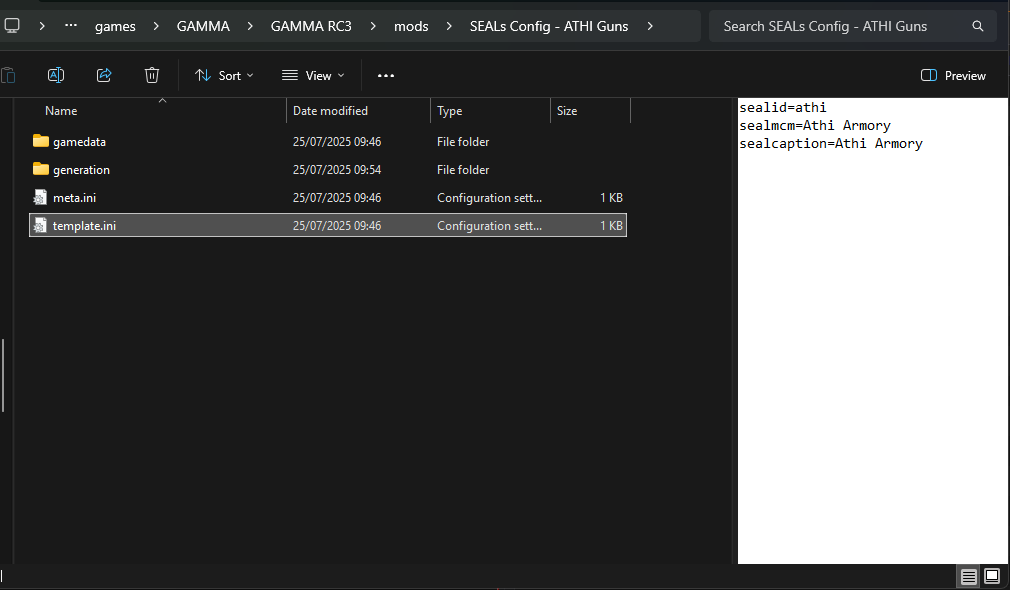
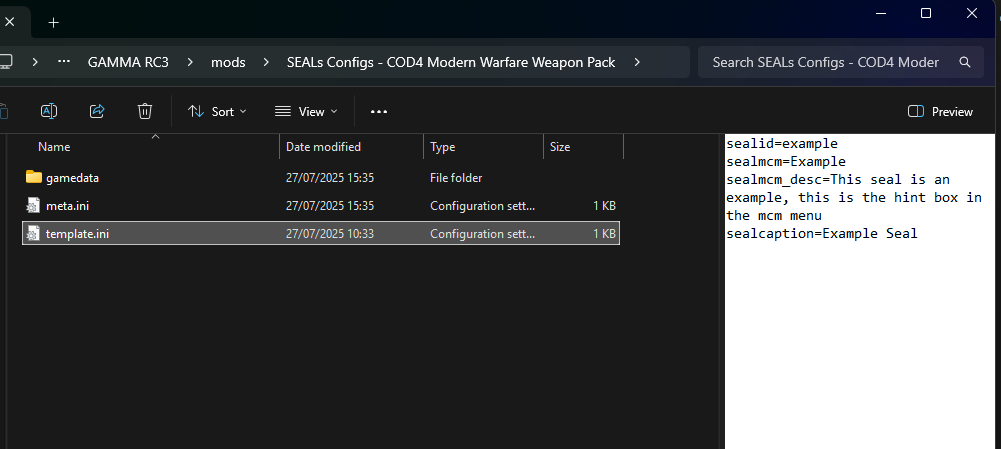
removed irl modders references

diff --git a/README.md b/README.md
@@ -70,7 +70,7 @@ You execute its commands from the windows terminal
 e.g.
 
 ```powershell
-SEALs.ps1 -new athi -from "GAMMA EXP Edition Redux - 3DSS ATHI Weapon Pack"
+SEALs.ps1 -new cod4 -from "3DSS COD4-MW Weapon Pack"
 ```
 
 or as **Mod Organizer 2** Executables
@@ -206,9 +206,9 @@ CLI allows you to create named configs projects from templates. These projects o
 
 ![template_inst](doc/images/template_inst.png)
 
-2) rename the template mod in MO2 with a name of your choice, e.g. `SEALs Configs - ATHI Guns`.
+2) rename the template mod in MO2 with a name of your choice, e.g. `SEALs Configs - COD4 Modern Warfare Weapon Pack`.
 
-![template_athi](doc/images/template_athi.png)
+![template_cod4](doc/images/template_cod4.png)
 
 3) open the renamed mod folder in explorer.
 
@@ -226,29 +226,33 @@ CLI allows you to create named configs projects from templates. These projects o
 
 	e.g. 
 	```
-	sealid=athi
-	sealmcm=Athi Armory
-	sealmcm_desc=This seal is an example, this is the hint box in the mcm menu 
-	sealcaption=Athi Armory
+	sealid=cod4
+	sealmcm=COD4 Modern Warfare
+	sealmcm_desc=A porting of all guns from COD4 Modern Warfare
+	sealcaption=COD4 Modern Warfare
 	```
 	
 	save the changes and exit.
 
-5) open a terminal in windows to the `SEALs Configs - ATHI weapons pack` mod folder 
+5) open a terminal in windows to the `SEALs Configs - COD4 Modern Warfare Weapon Pack` mod folder 
 
-![terminal](doc/images/terminal.png)
+![terminal_cod4](doc/images/terminal_cod4.png)
 
-6) use the CLI `new` command to create a new template config from a gun mod e.g. `3DSS ATHI Weapon Pack`
+6) use the CLI `new` command to create a new template config from a gun mod e.g. `3DSS COD4-MW Weapon Pack`
 
-```powershell
-SEALs.ps1 -new athi -from "GAMMA EXP Edition Redux - 3DSS ATHI Weapon Pack"
-```
-
-7) you can now add more group sections to this config mod using `add`
+![terminal_new_cod4](doc/images/terminal_new_cod4.png)
 
 ```powershell
-SEALs.ps1 -add athi -from "GAMMA EXP Edition Redux - 3DSS-BaS22-Hero-s-Choice"
+SEALs.ps1 -new cod4 -from "3DSS COD4-MW Weapon Pack"
 ```
+
+7) you can now add more group sections to this config mod using `add` from different gun mods
+
+```powershell
+SEALs.ps1 -add cod4 -from "3DSS COD4 Gold Desert Eagle"
+```
+
+## Templating commands summary 
 
 ### CLI new
 
@@ -367,7 +371,7 @@ These modules contain modlist data already compiled, which can be used as is but
 
 - **SEALs Config - Anomaly**: a prefab config with populated group list that reference all the guns present in **Anomaly** VANILLA. With this config only, SEALs will tag all the guns with the Anomaly seal icon ![anomaly_seal](doc/images/anomaly_seal.png)  
 
-## CLI (Extra) commands support for VFS execution
+## Generation commands summary 
 
 You can use the CLI in the MO2 VFS with only two commands (update|generate)
 
